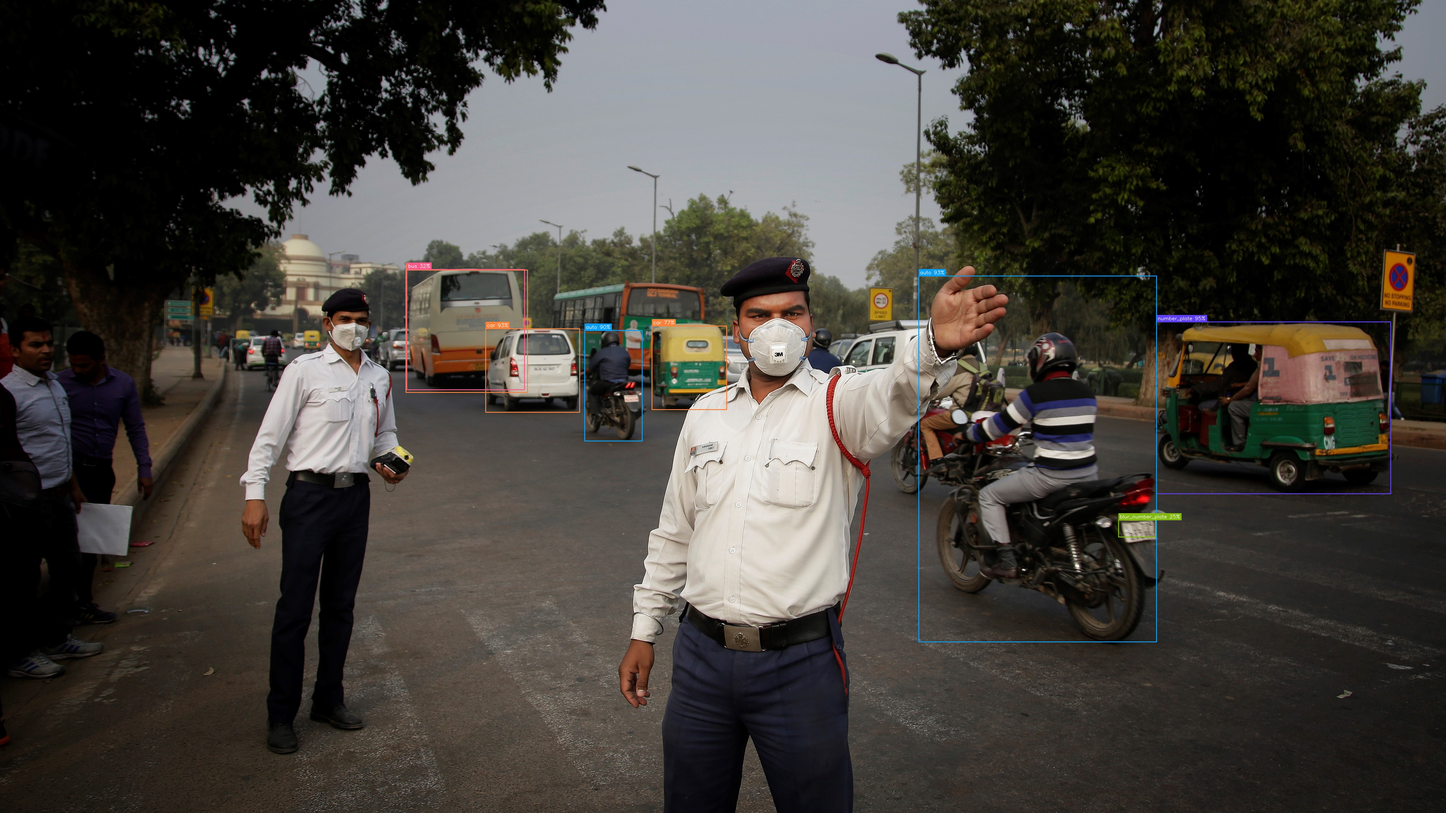
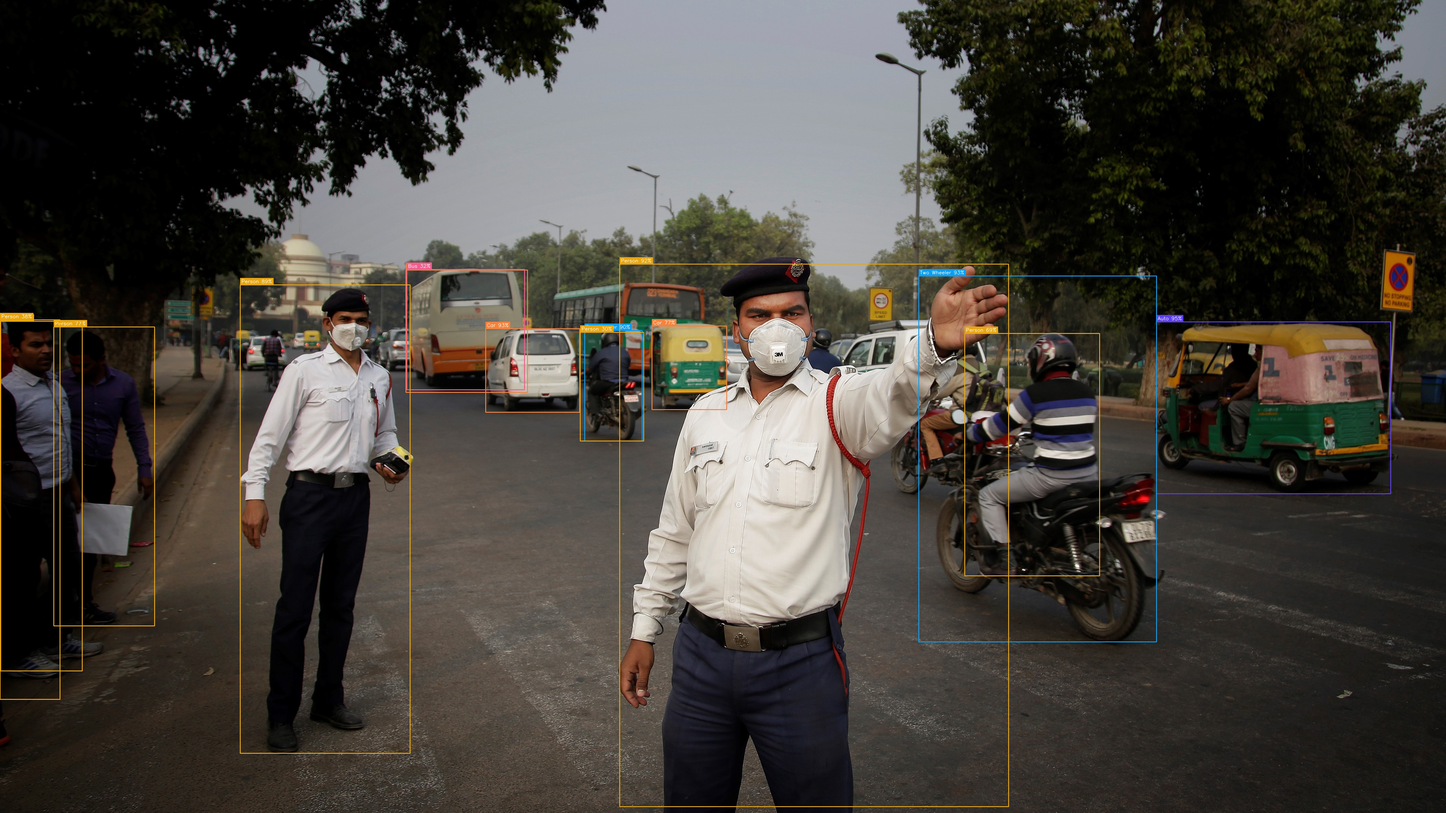
final people update

diff --git a/app.py b/app.py
@@ -18,6 +18,20 @@ if not os.path.exists(MODEL_PATH):
     MODEL_PATH = "yolov8n.pt"
 model = YOLO(MODEL_PATH)
 
+# Load base COCO model for Person detection
+model_person = YOLO("yolov8n.pt")
+
+
+# Custom class name mapping to fix misaligned training data labels
+CUSTOM_CLASS_NAMES = {
+    0: 'Car',
+    1: 'number_plate',       # Model labels this 'two_wheeler', but it detects plates
+    2: 'blur_number_plate',
+    3: 'Two Wheeler',        # Model labels this 'auto', but it detects bikes
+    4: 'Auto',               # Assuming 4 is actually auto
+    5: 'Bus',
+    6: 'Truck'
+}
 
 @app.route("/")
 def home():
@@ -37,9 +51,12 @@ def upload():
     filepath = os.path.join(app.config['UPLOAD_FOLDER'], file.filename)
     file.save(filepath)
 
-    # Run YOLO detection with timing
+    # Run YOLO detections with timing
     start_time = time.time()
-    results = model(filepath, conf=confidence)
+    # 1. Custom model for vehicles
+    results_vehicles = model(filepath, conf=confidence)
+    # 2. Base model specifically for class 0 (Person)
+    results_people = model_person(filepath, conf=confidence, classes=[0])
     inference_time = round((time.time() - start_time) * 1000, 1)  # ms
 
     # Read image for drawing
@@ -61,34 +78,51 @@ def upload():
         (14, 165, 233),   # sky
     ]
 
-    for r in results:
-        for box, cls, conf in zip(r.boxes.xyxy, r.boxes.cls, r.boxes.conf):
-            x1, y1, x2, y2 = map(int, box)
-            label = model.names[int(cls)]
-            conf_val = float(conf)
+    # Process both models' results
+    models_to_process = [
+        (results_vehicles, model.names, CUSTOM_CLASS_NAMES),
+        (results_people, model_person.names, None)
+    ]
 
-            # Track class counts
-            class_counts[label] = class_counts.get(label, 0) + 1
+    for res_list, names_dict, custom_names in models_to_process:
+        for r in res_list:
+            for box, cls, conf in zip(r.boxes.xyxy, r.boxes.cls, r.boxes.conf):
+                if custom_names:
+                    label = custom_names.get(int(cls), names_dict[int(cls)])
+                    color_idx = int(cls) % len(colors)
+                else:
+                    label = names_dict[int(cls)].capitalize()  # 'Person' instead of 'person'
+                    color_idx = 7  # Force sky blue color for Person so it doesn't match Car (0)
+                
+                # Skip number plate detections
+                if label in ['number_plate', 'blur_number_plate']:
+                    continue
+                    
+                x1, y1, x2, y2 = map(int, box)
+                conf_val = float(conf)
 
-            # Pick color by class index
-            color_idx = int(cls) % len(colors)
-            color_bgr = colors[color_idx]
+                # Track class counts
+                class_counts[label] = class_counts.get(label, 0) + 1
 
-            detections.append({
-                'label': label,
-                'confidence': round(conf_val, 4),
-                'x1': x1, 'y1': y1, 'x2': x2, 'y2': y2,
-            })
+                # Pick color
+                color_bgr = colors[color_idx]
 
-            # Draw bounding box with thicker lines
-            cv2.rectangle(img, (x1, y1), (x2, y2), color_bgr, 2)
+                detections.append({
+                    'label': label,
+                    'confidence': round(conf_val, 4),
+                    'x1': x1, 'y1': y1, 'x2': x2, 'y2': y2,
+                })
 
-            # Draw label background
-            text = f"{label} {conf_val:.0%}"
-            (tw, th), _ = cv2.getTextSize(text, cv2.FONT_HERSHEY_SIMPLEX, 0.55, 1)
-            cv2.rectangle(img, (x1, y1 - th - 10), (x1 + tw + 8, y1), color_bgr, -1)
-            cv2.putText(img, text, (x1 + 4, y1 - 6),
-                        cv2.FONT_HERSHEY_SIMPLEX, 0.55, (255, 255, 255), 1, cv2.LINE_AA)
+                # Draw bounding box with thicker lines
+                cv2.rectangle(img, (x1, y1), (x2, y2), color_bgr, 2)
+
+                # Draw label background
+                text = f"{label} {conf_val:.0%}"
+                (tw, th), _ = cv2.getTextSize(text, cv2.FONT_HERSHEY_SIMPLEX, 0.55, 1)
+                cv2.rectangle(img, (x1, y1 - th - 10), (x1 + tw + 8, y1), color_bgr, -1)
+                cv2.putText(img, text, (x1 + 4, y1 - 6),
+                            cv2.FONT_HERSHEY_SIMPLEX, 0.55, (255, 255, 255), 1, cv2.LINE_AA)
+
 
     # Save annotated image
     output_filename = "result_" + file.filename
